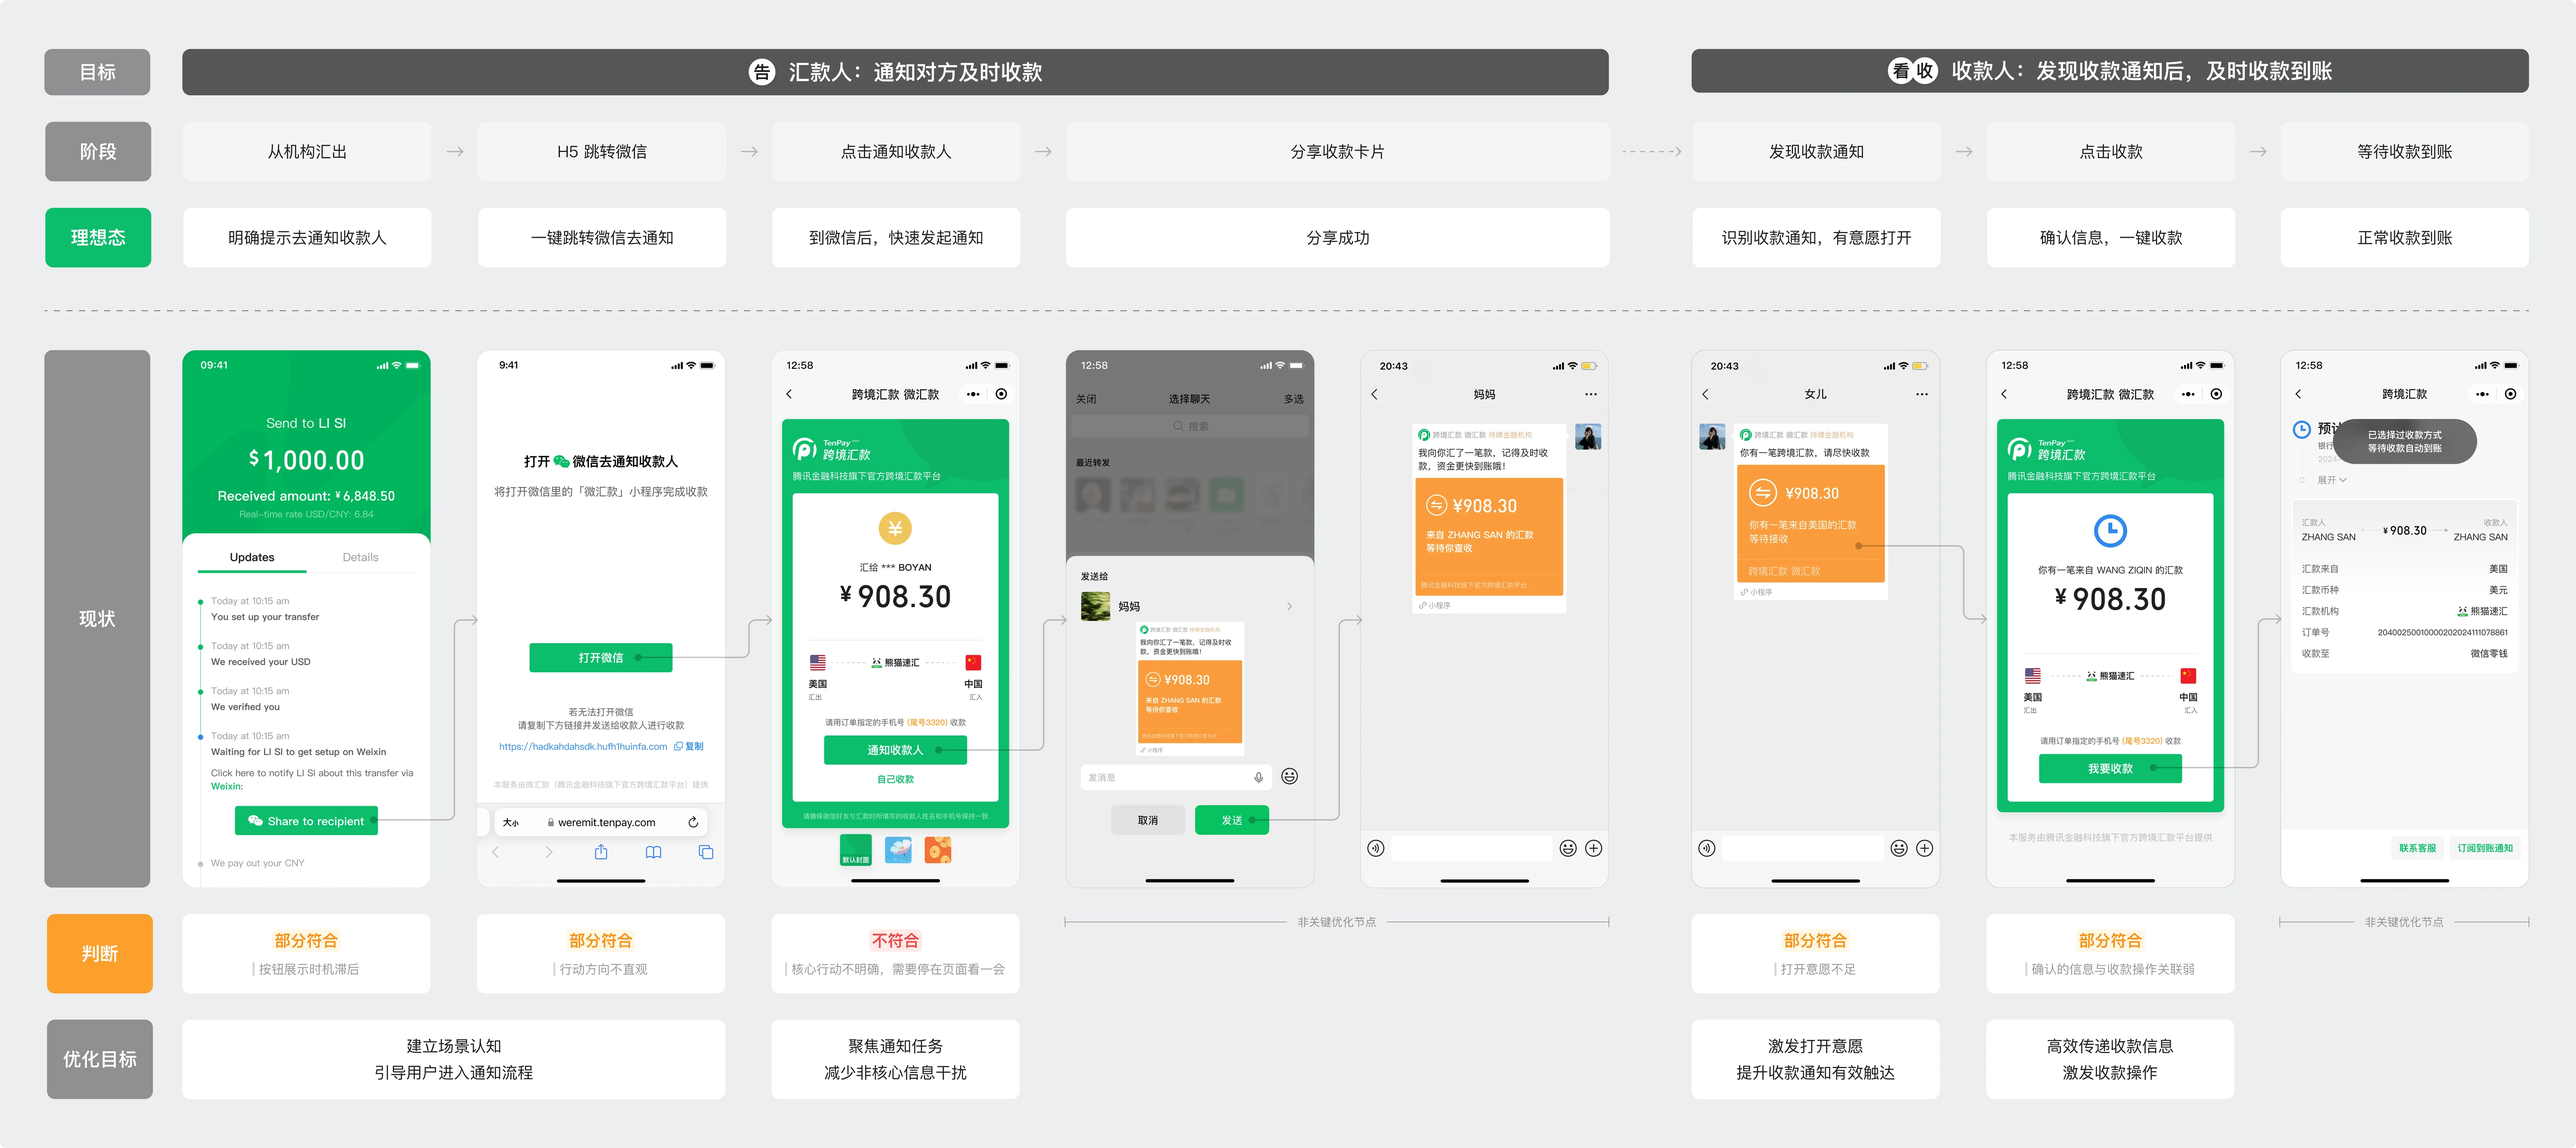
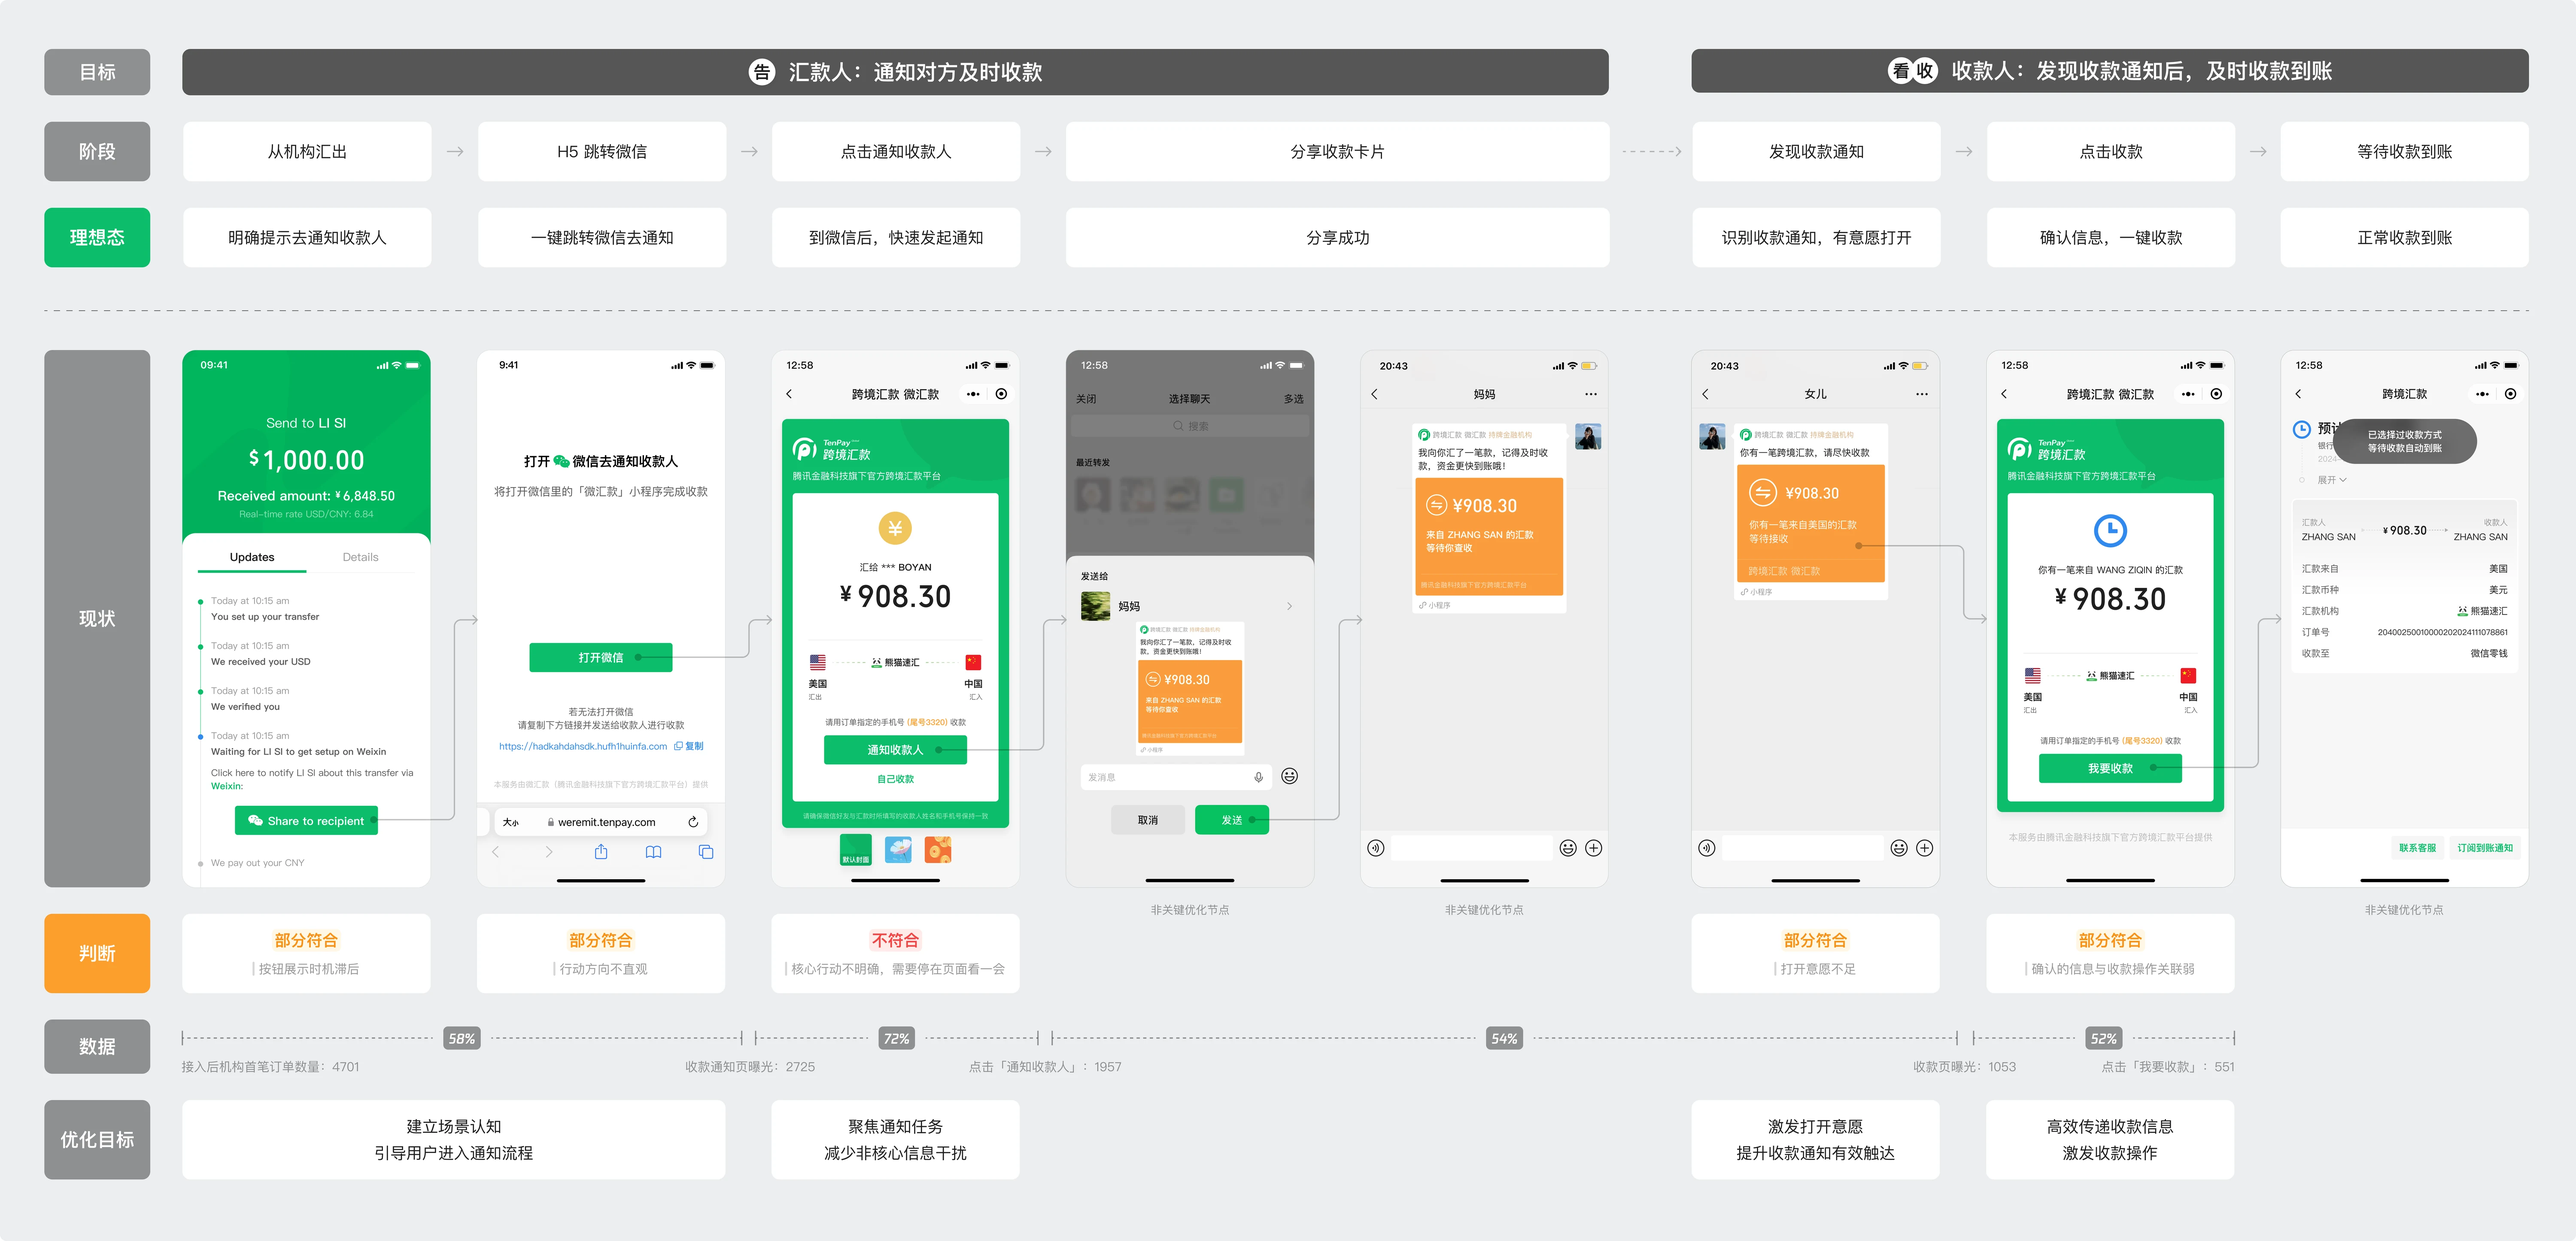
更新sharelink用户链路图与Home内容

diff --git a/src/pages/works/sharelink.jsx b/src/pages/works/sharelink.jsx
@@ -1,5 +1,5 @@
 import React, { useEffect, useState } from 'react';
-import { Link } from 'react-router-dom';
+import { Link, useSearchParams } from 'react-router-dom';
 import { useLenis } from 'lenis/react';
 import { Navbar } from '../../components/Navbar';
 import ZoomableImage from '../../components/ZoomableImage';
@@ -20,12 +20,14 @@ import shoukuanrenDuibi from '../../assets/works/sharelink/收款人前后对比
 
 /* 用户调研：用户链路图（高分辨率 WebP，保证放大后清晰） */
 import yonghulianlutu from '../../assets/works/sharelink/用户链路图-6000.webp';
+import yonghulianlutuHidden from '../../assets/works/sharelink/用户链路图-隐藏数据-6000.webp';
 
 /* 业务遇到问题：转化漏斗图（当前未使用，后续如需配图再启用） */
 /* import loudou from '../../assets/works/sharelink/漏斗.webp'; */
 
-/* 业务遇到的问题 1 */
-import yewuwenti1 from '../../assets/works/sharelink/业务问题 1-隐藏数据.webp';
+/* 业务遇到的问题 1（含数据版 / 隐藏数据版） */
+import yewuwenti1 from '../../assets/works/sharelink/业务问题 1.webp';
+import yewuwenti1Hidden from '../../assets/works/sharelink/业务问题 1-隐藏数据.webp';
 /* 业务遇到的问题 2 */
 import yewuwenti2 from '../../assets/works/sharelink/业务问题 2.webp';
 /* 业务遇到的问题 3 */
@@ -33,8 +35,9 @@ import yewuwenti3 from '../../assets/works/sharelink/业务问题 3.webp';
 /* 业务目标（当前未使用，后续如需再启用） */
 /* import yewumubiao from '../../assets/works/sharelink/业务目标.webp'; */
 
-/* 设计目标（隐藏数据版） */
-import shejimubiao from '../../assets/works/sharelink/设计目标-隐藏数据-6000.webp';
+/* 设计目标（含数据版 / 隐藏数据版） */
+import shejimubiao from '../../assets/works/sharelink/设计目标-6000.webp';
+import shejimubiaoHidden from '../../assets/works/sharelink/设计目标-隐藏数据-6000.webp';
 
 /* Sharelink 是什么：介绍图 */
 import jieshaoSharelink from '../../assets/works/sharelink/介绍 Sharelink-6000.webp';
@@ -841,6 +844,10 @@ export const Sharelink = () => {
     const showIndex = useMediaQuery('(min-width: 1500px)');
     const lenis = useLenis();
 
+    // URL 参数：?data=hidden 展示隐藏数据版用户链路图，默认展示含数据版
+    const [searchParams] = useSearchParams();
+    const hideData = searchParams.get('data') === 'hidden';
+
     // 右侧索引：当前高亮章节（scroll-spy）
     const [activeIndex, setActiveIndex] = useState(0);
 
@@ -1085,7 +1092,14 @@ export const Sharelink = () => {
                             '设计目标的导出，围绕业务整体目标、理想态用户体验与现存问题展开推导，最终提升收款转化率。\n\n（1）汇款人视角：建立从机构页跳转至微信通知收款人的认知，全程聚焦通知任务，减少页面中非核心信息的干扰。（2）收款人视角：激发收款人对通知卡片的打开意愿，提升通知的有效触达；收款环节则让收款信息更有用、更高效，正向促进收款动作完成。',
                         image: shejimubiao,
                     },
-                ].map((item, index) => (
+                ].map((item, index) => {
+                    // ?data=hidden 时，用户链路图 / 业务问题 1 / 设计目标 展示隐藏数据版
+                    let displayImage = item.image;
+                    if (hideData) {
+                        if (item.id === 'user-research') displayImage = yonghulianlutuHidden;
+                        else if (item.id === 'design-goals') displayImage = shejimubiaoHidden;
+                    }
+                    return (
                     <section
                         key={item.id}
                         id={item.id}
@@ -1133,7 +1147,7 @@ export const Sharelink = () => {
                         {/* 配图：用户调研用横向全景（左右切换） */}
                         {item.id === 'user-research' && item.image ? (
                             <PanoramaViewer
-                                src={item.image}
+                                src={displayImage}
                                 alt={item.title}
                                 leftHint="汇款人链路"
                                 rightHint="收款人链路"
@@ -1153,7 +1167,7 @@ export const Sharelink = () => {
                                         overflow: 'hidden',
                                     }}>
                                         <img
-                                            src={yewuwenti1}
+                                            src={hideData ? yewuwenti1Hidden : yewuwenti1}
                                             alt="业务问题 1"
                                             loading="lazy"
                                             style={{
@@ -1208,7 +1222,7 @@ export const Sharelink = () => {
                                 margin: item.imageMaxWidth ? '0 auto' : undefined,
                             }}>
                                 <img
-                                    src={item.image}
+                                    src={displayImage}
                                     alt={item.title}
                                     loading="lazy"
                                     style={{
@@ -1226,7 +1240,8 @@ export const Sharelink = () => {
                             }} />
                         )}
                     </section>
-                ))}
+                    );
+                })}
 
                 {/* 6 — 设计执行对比案例 */}
                 <section id="design-execution" style={{

diff --git a/src/pages/Home.jsx b/src/pages/Home.jsx
@@ -312,7 +312,7 @@ export const Home = () => {
                         reversed={true}
                         imageScale={1.12}
                         pixelPattern={<PixelEye size={6} gap={2} />}
-                        onClick={() => navigate('/works/sharelink')}
+                        onClick={() => navigate('/works/sharelink?data=hidden')}
                     />
                     <ProjectCard
                         date="Mar - May 2024"
